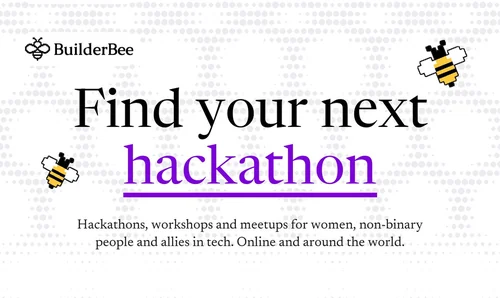
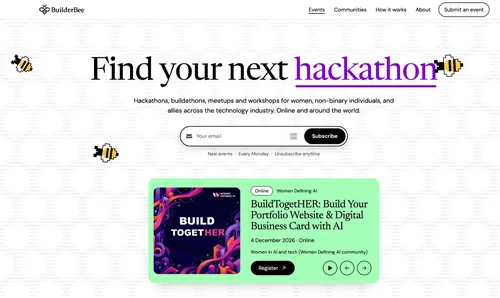
BuilderBee and Magpie cards: Irina's own 2x screenshots
Both captures are 2000px wide, so the cards are genuinely sharp at 1174 for
the first time. Magpie goes back to 1174x700 with the full three-step srcset,
which the 800px pane capture could not honestly support.

Neither screenshot is the card's shape: 1.81 and 2.04 against 1.677. Rather
than pad with dead bands, each is cropped on the long axis to a window chosen
to keep its content, then taken down to 1174 from 2000.

Magpie's ink spans x 201 to 1788, which sits inside the 1642 window, so
nothing is lost. BuilderBee needed more care. Measuring against the
background put its content at the full 2000, because the halftone honeycomb
is everywhere; measuring real ink instead, the dark pixels and the bees'
yellow, puts it at x 55 to 1830, and a window at x 15 to 1870 keeps all three
bees whole and the Submit an event button with them. A centred crop had been
slicing the left bee in half.

Worth knowing: the BuilderBee capture includes a real listing, BuildTogetHER
on 4 December 2026. It will read as a past event in time, and the card will
want recapturing then.

diff --git a/ai-projects/index.html b/ai-projects/index.html
@@ -103,7 +103,7 @@
 </style></div><div class="yellow-circle-hero"></div><div class="blue-circle"></div><div class="large-pink-circle"></div></section><section id="selected-works" class="section---webflow-intro"><div id="webflow-intro-2" data-w-id="42c83ce9-e06b-a8b4-5723-9e30ec0290d4" class="case-study-block-title big-text webflow"><h2 data-w-id="42c83ce9-e06b-a8b4-5723-9e30ec0290d5" class="heading-23">Selected Works</h2><div data-w-id="42c83ce9-e06b-a8b4-5723-9e30ec0290d7" class="divider center"></div><div id="ai-projects" data-w-id="42c83ce9-e06b-a8b4-5723-9e30ec0290d8" class="intro-big-text webflow-projects">AI Projects</div></div></section><section class="section---selected-works">
 <!-- AI project cards. Replace each placeholder SVG with a real image of the same
      1174x1020 ratio, and edit the copy freely. -->
-<div class="home-project-images-container ai-projects-grid"><a href="https://builderbee.club" target="_blank" rel="noopener" style="--pc: #7B00DA" class="small-case-study-link-block ai-project-card w-inline-block"><img src="../assets/images/ai-projects/builderbee-card.webp" width="1174" height="700" loading="lazy" sizes="(max-width: 767px) 100vw, 681px" srcset="../assets/images/ai-projects/builderbee-card-p-500.webp 500w, ../assets/images/ai-projects/builderbee-card-p-800.webp 800w, ../assets/images/ai-projects/builderbee-card.webp 1174w" alt="BuilderBee: the wordmark and pixel-art bees on a pale halftone honeycomb, above the words Find your next hackathon, with hackathon underlined in purple" class="pc-media"/><div class="pc-body"><h2 class="pc-title">BuilderBee</h2><p class="pc-industry"><strong>Industry:</strong> Tech Events &amp; Community</p><p class="pc-desc"><strong>Tech events for women and non-binary builders, worldwide.</strong> A free calendar of hackathons, buildathons, workshops and meetups. An AI scout checks Luma, Eventbrite and organisers&#x2019; own pages every morning, and lists an event only once it is confirmed on the official page. Built with Tracey Windsor.</p><div class="pc-tags"><span class="pc-tag">AI Agent</span><span class="pc-tag">Claude Code</span><span class="pc-tag">Automation</span><span class="pc-tag">Community</span><span class="pc-tag">Events</span><span class="pc-tag">Product Design</span><span class="pc-tag">Branding</span><span class="pc-tag">Web App</span></div><div class="ai-live-link">View live project</div></div></a><a href="https://magpie.cool" target="_blank" rel="noopener" style="--pc: #1f3456" class="small-case-study-link-block ai-project-card w-inline-block"><img src="../assets/images/ai-projects/magpie-card.webp" width="800" height="477" loading="lazy" sizes="(max-width: 767px) 100vw, 681px" srcset="../assets/images/ai-projects/magpie-card-p-500.webp 500w, ../assets/images/ai-projects/magpie-card-p-800.webp 800w" alt="The Magpie home page: the magpie logo and navigation above the words Open calls, prizes and events for artists, over a soft pastel wash, with the Monday email sign-up below" class="pc-media"/><div class="pc-body"><h2 class="pc-title">Magpie</h2><p class="pc-industry"><strong>Industry:</strong> Art &amp; Open Calls</p><p class="pc-desc"><strong>Open calls for artists, every fee up front.</strong> A free calendar of prizes, residencies, grants and commissions. Every listing shows what it costs to enter and anything you would pay if selected, and pay-to-exhibit operators are kept in their own row with a price on them.</p><div class="pc-tags"><span class="pc-tag">AI Agent</span><span class="pc-tag">Automation</span><span class="pc-tag">Art</span><span class="pc-tag">Transparency</span><span class="pc-tag">Structured Data</span><span class="pc-tag">React</span><span class="pc-tag">TypeScript</span><span class="pc-tag">Web App</span></div><div class="ai-live-link">View live project</div></div></a><div style="--pc: #575ecf" class="small-case-study-link-block ai-project-card ai-project-card--links"><img src="../assets/images/ai-projects/cheer-card.webp" loading="lazy" sizes="(max-width: 767px) 100vw, 681px" srcset="../assets/images/ai-projects/cheer-card-p-500.webp 500w, ../assets/images/ai-projects/cheer-card-p-800.webp 800w, ../assets/images/ai-projects/cheer-card.webp 1174w" alt="Cheer: the wordmark beside a phone showing the onboarding screen, log the small stuff, surrounded by six fluffy pom-pom characters" class="pc-media"/><div class="pc-body"><h2 class="pc-title">Cheer</h2><p class="pc-industry"><strong>Industry:</strong> Wellbeing</p><p class="pc-desc"><strong>A support network, not a social network.</strong> A small, private squad cheers on the things that are hard to do: a job application, a walk on a low day, a habit worth keeping. No followers, no feed, no like counts.</p><div class="pc-tags"><span class="pc-tag">Gen AI</span><span class="pc-tag">LLM Moderation</span><span class="pc-tag">Wellbeing</span><span class="pc-tag">Privacy by Design</span><span class="pc-tag">Accessibility</span><span class="pc-tag">Hackathon</span><span class="pc-tag">Product Design</span><span class="pc-tag">Web App</span></div><div class="ai-cta-row"><a href="https://getcheer.lovable.app" target="_blank" rel="noopener" class="ai-live-link">View live project</a><a href="../case-studies/cheer-case-study/" class="ai-second-link">Case Study</a></div></div></div><div style="--pc: #127a64" class="small-case-study-link-block ai-project-card ai-project-card--links"><img src="../assets/images/ai-projects/vera-card.webp" loading="lazy" sizes="(max-width: 767px) 100vw, 681px" srcset="../assets/images/ai-projects/vera-card-p-500.webp 500w, ../assets/images/ai-projects/vera-card-p-800.webp 800w, ../assets/images/ai-projects/vera-card.webp 1174w" alt="Vera: real advice, better choices. A claim score of 60 beside the app on a phone, checking an influencer’s collagen supplement post against the evidence" class="pc-media"/><div class="pc-body"><h2 class="pc-title">Vera</h2><p class="pc-industry"><strong>Industry:</strong> Health &amp; Nutrition</p><p class="pc-desc"><strong>Score the claim, not the influencer.</strong> A supplement fact-checker built in two days at the ZOE hackathon.</p><div class="pc-tags"><span class="pc-tag">Gen AI</span><span class="pc-tag">LLM</span><span class="pc-tag">Health</span><span class="pc-tag">Fact-checking</span><span class="pc-tag">Hackathon</span><span class="pc-tag">Web App</span><span class="pc-tag">Product Design</span><span class="pc-tag">Mobile Prototype</span></div><div class="ai-cta-row"><a href="https://irinacsapo.github.io/zoe-hackathon-app/" target="_blank" rel="noopener" class="ai-live-link">View live project</a><a href="https://irinacsapo.github.io/zoe-hackathon-app/case-study.html" target="_blank" rel="noopener" class="ai-second-link">Case Study</a></div></div></div><a href="https://www.cosmicpets.love/" target="_blank" rel="noopener" style="--pc: #7b4fd6" class="small-case-study-link-block ai-project-card w-inline-block"><img src="../assets/images/ai-projects/cosmic-pets-card.webp" width="1174" height="700" loading="lazy" sizes="(max-width: 767px) 100vw, 681px" srcset="../assets/images/ai-projects/cosmic-pets-card-p-500.webp 500w, ../assets/images/ai-projects/cosmic-pets-card-p-800.webp 800w, ../assets/images/ai-projects/cosmic-pets-card.webp 1174w" alt="Cosmic Pets: turn your pet into a cosmic portrait. A black cat framed by flowers, crystals and planets, with other pet portraits around it" class="pc-media"/><div class="pc-body"><h2 class="pc-title">Cosmic Pets</h2><p class="pc-industry"><strong>Industry:</strong> Pets &amp; Personalised Art</p><p class="pc-desc"><strong>Custom cosmic portraits of your pets.</strong> Upload a photo and your pet is reimagined as a one-of-a-kind cosmic portrait.</p><div class="pc-tags"><span class="pc-tag">Gen AI</span><span class="pc-tag">Image Generation</span><span class="pc-tag">E-commerce</span><span class="pc-tag">Product Design</span><span class="pc-tag">Branding</span><span class="pc-tag">Storytelling</span><span class="pc-tag">Web App</span></div><div class="ai-live-link">View live project</div></div></a><a href="https://letters.irina.love" target="_blank" rel="noopener" style="--pc: #a47cd6" class="small-case-study-link-block ai-project-card w-inline-block"><img src="../assets/images/ai-projects/letters-card.webp" width="1174" height="700" loading="lazy" sizes="(max-width: 767px) 100vw, 681px" srcset="../assets/images/ai-projects/letters-card-p-500.webp 500w, ../assets/images/ai-projects/letters-card-p-800.webp 800w, ../assets/images/ai-projects/letters-card.webp 1174w" alt="Letters from Your Future Self: write what is on your heart, your future self will write back. A person sitting in a meadow above the clouds at dusk as handwritten letters drift past" class="pc-media"/><div class="pc-body"><h2 class="pc-title">Letters from Your Future Self</h2><p class="pc-industry"><strong>Industry:</strong> Wellbeing</p><p class="pc-desc"><strong>A mood, reframed.</strong> Share how you feel today and receive a letter of perspective from the person you are becoming.</p><div class="pc-tags"><span class="pc-tag">Gen AI</span><span class="pc-tag">LLM</span><span class="pc-tag">Wellbeing</span><span class="pc-tag">Storytelling</span><span class="pc-tag">Web App</span><span class="pc-tag">Image Generation</span><span class="pc-tag">Product Design</span></div><div class="ai-live-link">View live project</div></div></a><a href="https://soundtrack.irina.love" target="_blank" rel="noopener" style="--pc: #1f64e0" class="small-case-study-link-block ai-project-card w-inline-block"><img src="../assets/images/ai-projects/soundtrack-card.webp" width="1174" height="700" loading="lazy" sizes="(max-width: 767px) 100vw, 681px" srcset="../assets/images/ai-projects/soundtrack-card-p-500.webp 500w, ../assets/images/ai-projects/soundtrack-card-p-800.webp 800w, ../assets/images/ai-projects/soundtrack-card.webp 1174w" alt="Soundtrack of Your Life: your life, in its own soundtrack. Four hand-made album covers for original songs, each with a play button, against a purple night sky" class="pc-media"/><div class="pc-body"><h2 class="pc-title">Soundtrack of Your Life</h2><p class="pc-industry"><strong>Industry:</strong> Music &amp; Wellbeing</p><p class="pc-desc"><strong>A moment, recomposed.</strong> Tell it about a moment in your life and it composes an original piece of music for it.</p><div class="pc-tags"><span class="pc-tag">Gen AI</span><span class="pc-tag">Music Generation</span><span class="pc-tag">Storytelling</span><span class="pc-tag">Web App</span><span class="pc-tag">Image Generation</span><span class="pc-tag">Product Design</span><span class="pc-tag">LLM</span></div><div class="ai-live-link">View live project</div></div></a><a href="https://bloom.irina.love" target="_blank" rel="noopener" style="--pc: #c0577f" class="small-case-study-link-block ai-project-card w-inline-block"><img src="../assets/images/ai-projects/bloom-card.webp" width="1174" height="700" loading="lazy" sizes="(max-width: 767px) 100vw, 681px" srcset="../assets/images/ai-projects/bloom-card-p-500.webp 500w, ../assets/images/ai-projects/bloom-card-p-800.webp 800w, ../assets/images/ai-projects/bloom-card.webp 1174w" alt="Bloom after Rain: a gentle space for your next chapter. A dew-covered pink peony above a valley at golden hour, petals falling, beside an invitation to begin your journey" class="pc-media"/><div class="pc-body"><h2 class="pc-title">Bloom after Rain</h2><p class="pc-industry"><strong>Industry:</strong> Wellbeing</p><p class="pc-desc"><strong>A loss, regrown.</strong> Turns a loss into a flower that grows in a shared garden of resilience.</p><div class="pc-tags"><span class="pc-tag">Gen AI</span><span class="pc-tag">Image Generation</span><span class="pc-tag">Wellbeing</span><span class="pc-tag">Community</span><span class="pc-tag">Web App</span><span class="pc-tag">LLM</span><span class="pc-tag">Storytelling</span><span class="pc-tag">Product Design</span></div><div class="ai-live-link">View live project</div></div></a></div></section><div class="section---cv border-top no-padding-vertical"><div class="wrapper"><div class="footer-v3"><div class="footer-v3-logo"><a href="../" class="brand no-padding w-nav-brand"><img src="../assets/images/5e9f68d617861b8c6539ccd4_IC_logo_2.svg" alt="Irina Csapo logo" class="image-18"/></a></div><div class="footer-v3-nav"><a href="../" class="footer-v3-link">Home</a><a href="../ai-projects/" class="footer-v3-link">AI Projects</a><a href="../photography/" class="footer-v3-link">Photography</a><a href="../art/" class="footer-v3-link">Art</a><a href="../about/" class="footer-v3-link">About</a><a href="../assets/docs/6a8f880410adf144d77e3d93_v4---Senior-Product-Designer---Irina-Csapo---CV---August-2026.pdf" target="_blank" class="footer-v3-link">CV</a><a href="../contact/" class="footer-v3-link">Contact</a></div><div class="social-icons footer-v3-icons"><a href="https://www.linkedin.com/in/irinacsapo/" target="_blank" rel="noopener" class="social-link facebook w-inline-block"><img src="../assets/images/5eb5fcdaf92b5813c30c4be8_linkedin.svg" width="18" alt="linkedin" class="social-icon-small"/></a><a href="https://www.instagram.com/irina_csapo_art" target="_blank" rel="noopener" class="social-link instagram w-inline-block"><img src="../assets/images/5e9608862c6c0bce460542a0_instagram-icon-white.svg" alt="instagram" class="social-icon-small"/></a><a href="https://irina.love/" target="_blank" rel="noopener" class="social-link dribbble w-inline-block"><img src="../assets/images/5e9608862c6c0b8aea0542ff_store-icon.svg" alt="redbubble" class="social-icon-small"/></a><a href="https://linktr.ee/irina.csapo" target="_blank" rel="noopener" class="social-link behance w-inline-block"><img src="../assets/images/5e9608862c6c0b91bd05429e_rocket-icon.svg" alt="society6" class="social-icon-small"/></a></div><div class="footer-bottom"><div class="footer-bottom-left"><div class="footer-text-left">Created with <span class="heart-icon">love</span> by Irina Csapo</div></div><div class="footer-bottom-right"><div class="text-block-3">© 2026 Irina Csapo – Creative Portfolio. All rights reserved.</div></div></div></div></div></div><script src="../assets/js/jquery.min-2.js" type="text/javascript" crossorigin="anonymous"></script><script src="../assets/js/webflow.schunk.36b8fb49256177c8.js" type="text/javascript" crossorigin="anonymous"></script><script src="../assets/js/webflow.schunk.9f9237bf333f1192.js" type="text/javascript" crossorigin="anonymous"></script><script src="../assets/js/webflow.schunk.bdf58efcee47c042.js" type="text/javascript" crossorigin="anonymous"></script><script src="../assets/js/webflow.58e1bac0.3ac1f7c567b3c54e.js" type="text/javascript" crossorigin="anonymous"></script><script src="../assets/js/gsap/gsap.min.js" type="text/javascript"></script><script src="../assets/js/gsap/SplitText.min.js" type="text/javascript"></script><script src="../assets/js/gsap/ScrollTrigger.min.js" type="text/javascript"></script><!-- Flowbase Cookie Script -->
+<div class="home-project-images-container ai-projects-grid"><a href="https://builderbee.club" target="_blank" rel="noopener" style="--pc: #7B00DA" class="small-case-study-link-block ai-project-card w-inline-block"><img src="../assets/images/ai-projects/builderbee-card.webp" width="1174" height="700" loading="lazy" sizes="(max-width: 767px) 100vw, 681px" srcset="../assets/images/ai-projects/builderbee-card-p-500.webp 500w, ../assets/images/ai-projects/builderbee-card-p-800.webp 800w, ../assets/images/ai-projects/builderbee-card.webp 1174w" alt="The BuilderBee home page: the wordmark and navigation above the words Find your next hackathon, hackathon underlined in purple, with pixel-art bees on a pale halftone honeycomb, the Monday email sign-up, and an event listed below" class="pc-media"/><div class="pc-body"><h2 class="pc-title">BuilderBee</h2><p class="pc-industry"><strong>Industry:</strong> Tech Events &amp; Community</p><p class="pc-desc"><strong>Tech events for women and non-binary builders, worldwide.</strong> A free calendar of hackathons, buildathons, workshops and meetups. An AI scout checks Luma, Eventbrite and organisers&#x2019; own pages every morning, and lists an event only once it is confirmed on the official page. Built with Tracey Windsor.</p><div class="pc-tags"><span class="pc-tag">AI Agent</span><span class="pc-tag">Claude Code</span><span class="pc-tag">Automation</span><span class="pc-tag">Community</span><span class="pc-tag">Events</span><span class="pc-tag">Product Design</span><span class="pc-tag">Branding</span><span class="pc-tag">Web App</span></div><div class="ai-live-link">View live project</div></div></a><a href="https://magpie.cool" target="_blank" rel="noopener" style="--pc: #1f3456" class="small-case-study-link-block ai-project-card w-inline-block"><img src="../assets/images/ai-projects/magpie-card.webp" width="1174" height="700" loading="lazy" sizes="(max-width: 767px) 100vw, 681px" srcset="../assets/images/ai-projects/magpie-card-p-500.webp 500w, ../assets/images/ai-projects/magpie-card-p-800.webp 800w, ../assets/images/ai-projects/magpie-card.webp 1174w" alt="The Magpie home page: the magpie logo and navigation above the words Open calls, prizes and events for artists, over a soft pastel wash, with the Monday email sign-up below" class="pc-media"/><div class="pc-body"><h2 class="pc-title">Magpie</h2><p class="pc-industry"><strong>Industry:</strong> Art &amp; Open Calls</p><p class="pc-desc"><strong>Open calls for artists, every fee up front.</strong> A free calendar of prizes, residencies, grants and commissions. Every listing shows what it costs to enter and anything you would pay if selected, and pay-to-exhibit operators are kept in their own row with a price on them.</p><div class="pc-tags"><span class="pc-tag">AI Agent</span><span class="pc-tag">Automation</span><span class="pc-tag">Art</span><span class="pc-tag">Transparency</span><span class="pc-tag">Structured Data</span><span class="pc-tag">React</span><span class="pc-tag">TypeScript</span><span class="pc-tag">Web App</span></div><div class="ai-live-link">View live project</div></div></a><div style="--pc: #575ecf" class="small-case-study-link-block ai-project-card ai-project-card--links"><img src="../assets/images/ai-projects/cheer-card.webp" loading="lazy" sizes="(max-width: 767px) 100vw, 681px" srcset="../assets/images/ai-projects/cheer-card-p-500.webp 500w, ../assets/images/ai-projects/cheer-card-p-800.webp 800w, ../assets/images/ai-projects/cheer-card.webp 1174w" alt="Cheer: the wordmark beside a phone showing the onboarding screen, log the small stuff, surrounded by six fluffy pom-pom characters" class="pc-media"/><div class="pc-body"><h2 class="pc-title">Cheer</h2><p class="pc-industry"><strong>Industry:</strong> Wellbeing</p><p class="pc-desc"><strong>A support network, not a social network.</strong> A small, private squad cheers on the things that are hard to do: a job application, a walk on a low day, a habit worth keeping. No followers, no feed, no like counts.</p><div class="pc-tags"><span class="pc-tag">Gen AI</span><span class="pc-tag">LLM Moderation</span><span class="pc-tag">Wellbeing</span><span class="pc-tag">Privacy by Design</span><span class="pc-tag">Accessibility</span><span class="pc-tag">Hackathon</span><span class="pc-tag">Product Design</span><span class="pc-tag">Web App</span></div><div class="ai-cta-row"><a href="https://getcheer.lovable.app" target="_blank" rel="noopener" class="ai-live-link">View live project</a><a href="../case-studies/cheer-case-study/" class="ai-second-link">Case Study</a></div></div></div><div style="--pc: #127a64" class="small-case-study-link-block ai-project-card ai-project-card--links"><img src="../assets/images/ai-projects/vera-card.webp" loading="lazy" sizes="(max-width: 767px) 100vw, 681px" srcset="../assets/images/ai-projects/vera-card-p-500.webp 500w, ../assets/images/ai-projects/vera-card-p-800.webp 800w, ../assets/images/ai-projects/vera-card.webp 1174w" alt="Vera: real advice, better choices. A claim score of 60 beside the app on a phone, checking an influencer’s collagen supplement post against the evidence" class="pc-media"/><div class="pc-body"><h2 class="pc-title">Vera</h2><p class="pc-industry"><strong>Industry:</strong> Health &amp; Nutrition</p><p class="pc-desc"><strong>Score the claim, not the influencer.</strong> A supplement fact-checker built in two days at the ZOE hackathon.</p><div class="pc-tags"><span class="pc-tag">Gen AI</span><span class="pc-tag">LLM</span><span class="pc-tag">Health</span><span class="pc-tag">Fact-checking</span><span class="pc-tag">Hackathon</span><span class="pc-tag">Web App</span><span class="pc-tag">Product Design</span><span class="pc-tag">Mobile Prototype</span></div><div class="ai-cta-row"><a href="https://irinacsapo.github.io/zoe-hackathon-app/" target="_blank" rel="noopener" class="ai-live-link">View live project</a><a href="https://irinacsapo.github.io/zoe-hackathon-app/case-study.html" target="_blank" rel="noopener" class="ai-second-link">Case Study</a></div></div></div><a href="https://www.cosmicpets.love/" target="_blank" rel="noopener" style="--pc: #7b4fd6" class="small-case-study-link-block ai-project-card w-inline-block"><img src="../assets/images/ai-projects/cosmic-pets-card.webp" width="1174" height="700" loading="lazy" sizes="(max-width: 767px) 100vw, 681px" srcset="../assets/images/ai-projects/cosmic-pets-card-p-500.webp 500w, ../assets/images/ai-projects/cosmic-pets-card-p-800.webp 800w, ../assets/images/ai-projects/cosmic-pets-card.webp 1174w" alt="Cosmic Pets: turn your pet into a cosmic portrait. A black cat framed by flowers, crystals and planets, with other pet portraits around it" class="pc-media"/><div class="pc-body"><h2 class="pc-title">Cosmic Pets</h2><p class="pc-industry"><strong>Industry:</strong> Pets &amp; Personalised Art</p><p class="pc-desc"><strong>Custom cosmic portraits of your pets.</strong> Upload a photo and your pet is reimagined as a one-of-a-kind cosmic portrait.</p><div class="pc-tags"><span class="pc-tag">Gen AI</span><span class="pc-tag">Image Generation</span><span class="pc-tag">E-commerce</span><span class="pc-tag">Product Design</span><span class="pc-tag">Branding</span><span class="pc-tag">Storytelling</span><span class="pc-tag">Web App</span></div><div class="ai-live-link">View live project</div></div></a><a href="https://letters.irina.love" target="_blank" rel="noopener" style="--pc: #a47cd6" class="small-case-study-link-block ai-project-card w-inline-block"><img src="../assets/images/ai-projects/letters-card.webp" width="1174" height="700" loading="lazy" sizes="(max-width: 767px) 100vw, 681px" srcset="../assets/images/ai-projects/letters-card-p-500.webp 500w, ../assets/images/ai-projects/letters-card-p-800.webp 800w, ../assets/images/ai-projects/letters-card.webp 1174w" alt="Letters from Your Future Self: write what is on your heart, your future self will write back. A person sitting in a meadow above the clouds at dusk as handwritten letters drift past" class="pc-media"/><div class="pc-body"><h2 class="pc-title">Letters from Your Future Self</h2><p class="pc-industry"><strong>Industry:</strong> Wellbeing</p><p class="pc-desc"><strong>A mood, reframed.</strong> Share how you feel today and receive a letter of perspective from the person you are becoming.</p><div class="pc-tags"><span class="pc-tag">Gen AI</span><span class="pc-tag">LLM</span><span class="pc-tag">Wellbeing</span><span class="pc-tag">Storytelling</span><span class="pc-tag">Web App</span><span class="pc-tag">Image Generation</span><span class="pc-tag">Product Design</span></div><div class="ai-live-link">View live project</div></div></a><a href="https://soundtrack.irina.love" target="_blank" rel="noopener" style="--pc: #1f64e0" class="small-case-study-link-block ai-project-card w-inline-block"><img src="../assets/images/ai-projects/soundtrack-card.webp" width="1174" height="700" loading="lazy" sizes="(max-width: 767px) 100vw, 681px" srcset="../assets/images/ai-projects/soundtrack-card-p-500.webp 500w, ../assets/images/ai-projects/soundtrack-card-p-800.webp 800w, ../assets/images/ai-projects/soundtrack-card.webp 1174w" alt="Soundtrack of Your Life: your life, in its own soundtrack. Four hand-made album covers for original songs, each with a play button, against a purple night sky" class="pc-media"/><div class="pc-body"><h2 class="pc-title">Soundtrack of Your Life</h2><p class="pc-industry"><strong>Industry:</strong> Music &amp; Wellbeing</p><p class="pc-desc"><strong>A moment, recomposed.</strong> Tell it about a moment in your life and it composes an original piece of music for it.</p><div class="pc-tags"><span class="pc-tag">Gen AI</span><span class="pc-tag">Music Generation</span><span class="pc-tag">Storytelling</span><span class="pc-tag">Web App</span><span class="pc-tag">Image Generation</span><span class="pc-tag">Product Design</span><span class="pc-tag">LLM</span></div><div class="ai-live-link">View live project</div></div></a><a href="https://bloom.irina.love" target="_blank" rel="noopener" style="--pc: #c0577f" class="small-case-study-link-block ai-project-card w-inline-block"><img src="../assets/images/ai-projects/bloom-card.webp" width="1174" height="700" loading="lazy" sizes="(max-width: 767px) 100vw, 681px" srcset="../assets/images/ai-projects/bloom-card-p-500.webp 500w, ../assets/images/ai-projects/bloom-card-p-800.webp 800w, ../assets/images/ai-projects/bloom-card.webp 1174w" alt="Bloom after Rain: a gentle space for your next chapter. A dew-covered pink peony above a valley at golden hour, petals falling, beside an invitation to begin your journey" class="pc-media"/><div class="pc-body"><h2 class="pc-title">Bloom after Rain</h2><p class="pc-industry"><strong>Industry:</strong> Wellbeing</p><p class="pc-desc"><strong>A loss, regrown.</strong> Turns a loss into a flower that grows in a shared garden of resilience.</p><div class="pc-tags"><span class="pc-tag">Gen AI</span><span class="pc-tag">Image Generation</span><span class="pc-tag">Wellbeing</span><span class="pc-tag">Community</span><span class="pc-tag">Web App</span><span class="pc-tag">LLM</span><span class="pc-tag">Storytelling</span><span class="pc-tag">Product Design</span></div><div class="ai-live-link">View live project</div></div></a></div></section><div class="section---cv border-top no-padding-vertical"><div class="wrapper"><div class="footer-v3"><div class="footer-v3-logo"><a href="../" class="brand no-padding w-nav-brand"><img src="../assets/images/5e9f68d617861b8c6539ccd4_IC_logo_2.svg" alt="Irina Csapo logo" class="image-18"/></a></div><div class="footer-v3-nav"><a href="../" class="footer-v3-link">Home</a><a href="../ai-projects/" class="footer-v3-link">AI Projects</a><a href="../photography/" class="footer-v3-link">Photography</a><a href="../art/" class="footer-v3-link">Art</a><a href="../about/" class="footer-v3-link">About</a><a href="../assets/docs/6a8f880410adf144d77e3d93_v4---Senior-Product-Designer---Irina-Csapo---CV---August-2026.pdf" target="_blank" class="footer-v3-link">CV</a><a href="../contact/" class="footer-v3-link">Contact</a></div><div class="social-icons footer-v3-icons"><a href="https://www.linkedin.com/in/irinacsapo/" target="_blank" rel="noopener" class="social-link facebook w-inline-block"><img src="../assets/images/5eb5fcdaf92b5813c30c4be8_linkedin.svg" width="18" alt="linkedin" class="social-icon-small"/></a><a href="https://www.instagram.com/irina_csapo_art" target="_blank" rel="noopener" class="social-link instagram w-inline-block"><img src="../assets/images/5e9608862c6c0bce460542a0_instagram-icon-white.svg" alt="instagram" class="social-icon-small"/></a><a href="https://irina.love/" target="_blank" rel="noopener" class="social-link dribbble w-inline-block"><img src="../assets/images/5e9608862c6c0b8aea0542ff_store-icon.svg" alt="redbubble" class="social-icon-small"/></a><a href="https://linktr.ee/irina.csapo" target="_blank" rel="noopener" class="social-link behance w-inline-block"><img src="../assets/images/5e9608862c6c0b91bd05429e_rocket-icon.svg" alt="society6" class="social-icon-small"/></a></div><div class="footer-bottom"><div class="footer-bottom-left"><div class="footer-text-left">Created with <span class="heart-icon">love</span> by Irina Csapo</div></div><div class="footer-bottom-right"><div class="text-block-3">© 2026 Irina Csapo – Creative Portfolio. All rights reserved.</div></div></div></div></div></div><script src="../assets/js/jquery.min-2.js" type="text/javascript" crossorigin="anonymous"></script><script src="../assets/js/webflow.schunk.36b8fb49256177c8.js" type="text/javascript" crossorigin="anonymous"></script><script src="../assets/js/webflow.schunk.9f9237bf333f1192.js" type="text/javascript" crossorigin="anonymous"></script><script src="../assets/js/webflow.schunk.bdf58efcee47c042.js" type="text/javascript" crossorigin="anonymous"></script><script src="../assets/js/webflow.58e1bac0.3ac1f7c567b3c54e.js" type="text/javascript" crossorigin="anonymous"></script><script src="../assets/js/gsap/gsap.min.js" type="text/javascript"></script><script src="../assets/js/gsap/SplitText.min.js" type="text/javascript"></script><script src="../assets/js/gsap/ScrollTrigger.min.js" type="text/javascript"></script><!-- Flowbase Cookie Script -->
 <script>
 // default time is 90 days
 flowBaseCookie('#cookieBlock', '#accept', '#clr', 30);
